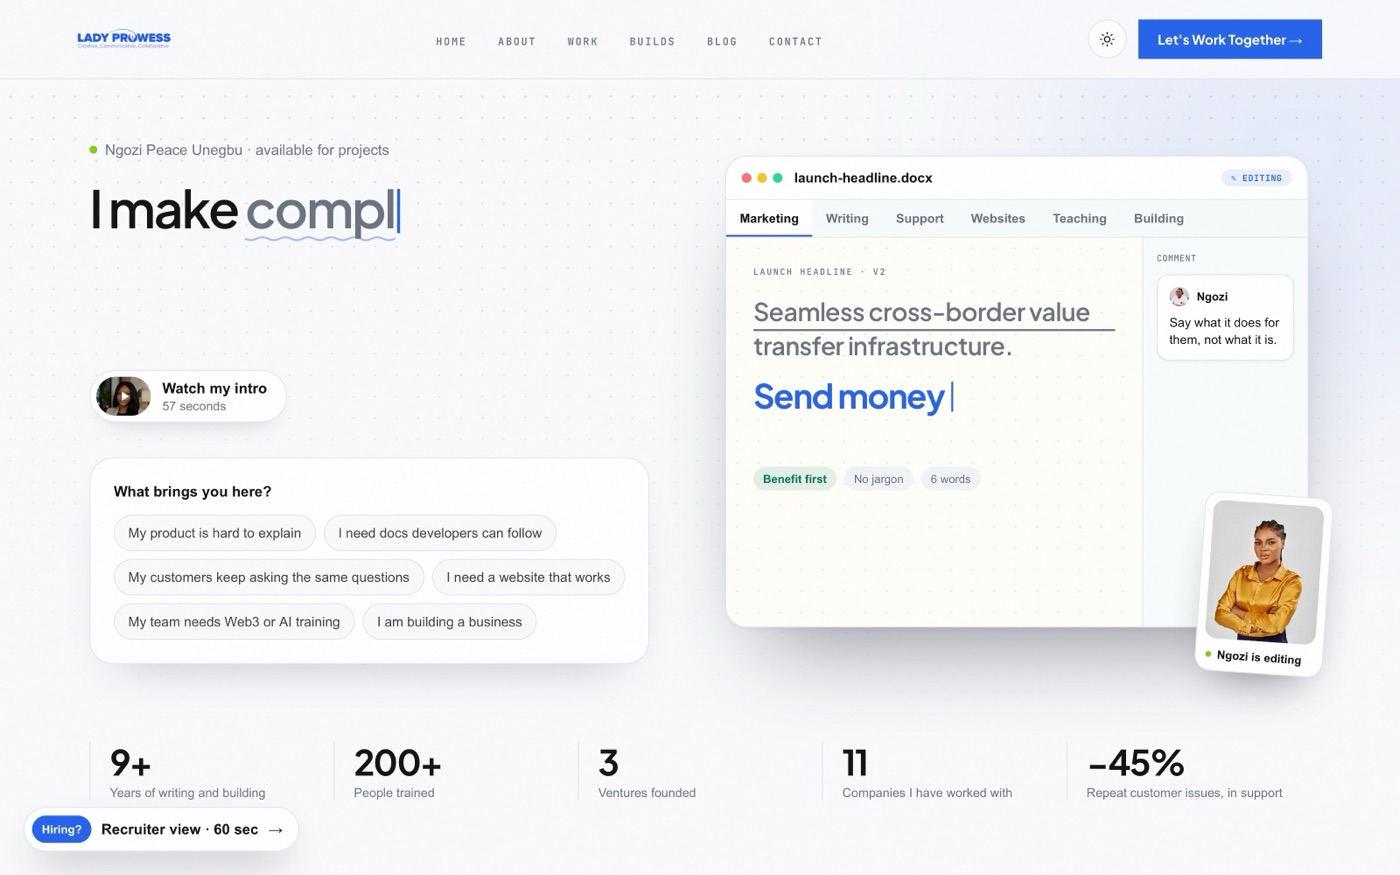
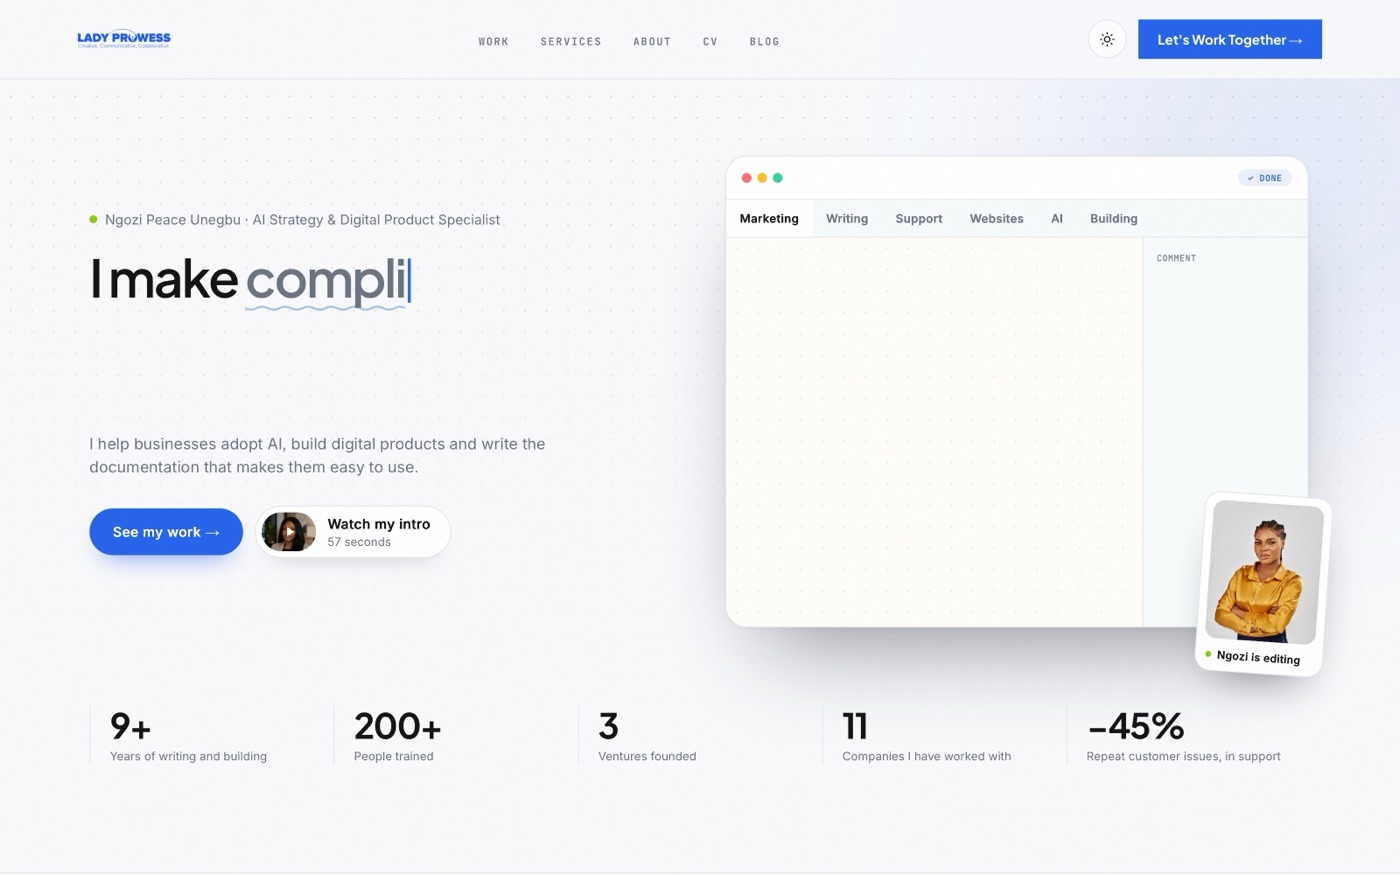
portfolio

diff --git a/components/work/WorkView.tsx b/components/work/WorkView.tsx
@@ -14,9 +14,9 @@ import { learning, websites, writing } from '@/lib/work-content'
 const wrap = 'mx-auto max-w-[1200px] px-5 md:px-8'
 const kivora = products.find(p => p.id === 'kivorapay')!
 // Chidexun is a client website, so it lives under Websites, not Products.
-const otherProducts = products.filter(p => p.id !== 'kivorapay' && p.id !== 'chidexun')
-// Prowess Digital Solutions is shown once, under Products.
-const sites = websites.filter(w => w.title !== 'Prowess Digital Solutions')
+const otherProducts = products.filter(p => !['kivorapay', 'chidexun', 'portfolio'].includes(p.id))
+// Prowess Digital Solutions and Dritchwear are shown once, under Products.
+const sites = websites.filter(w => w.title !== 'Prowess Digital Solutions' && w.title !== 'Dritchwear')
 
 const sections = [
   { id: 'products', label: 'Products' },
@@ -55,9 +55,9 @@ export default function WorkView() {
           <div className="relative min-h-[320px]"><KivoraMock /></div>
         </a>
       </Reveal>
-      <Grid>
-        {otherProducts.map(p => <Card key={p.id} href={p.href} image={p.image} title={p.name} tag={p.status} text={p.summary} />)}
-      </Grid>
+      <div className="mt-16 space-y-16 md:space-y-24">
+        {otherProducts.map((p, i) => <Reveal key={p.id}><Row flip={i % 2 === 1} href={p.href} image={p.image} title={p.name} tag={p.status} kind={p.kind} text={p.summary} /></Reveal>)}
+      </div>
     </Section>
 
     {/* ── Technical writing ────────────────────────────── */}
@@ -73,9 +73,14 @@ export default function WorkView() {
         </a>
       </Reveal>
       <p className="mt-12 font-head text-[11px] uppercase tracking-[.16em] text-muted">Published on</p>
-      <Grid cols4>
-        {writing.map(w => <Card key={w.title} href={w.href} image={w.image} title={w.title} text={w.description} small />)}
-      </Grid>
+      <ul className="mt-4 grid border-t border-ink-border sm:grid-cols-2">
+        {writing.map(w => <li key={w.title} className="border-b border-ink-border sm:odd:border-r sm:odd:pr-8 sm:even:pl-8">
+          <a href={w.href} target="_blank" rel="noopener noreferrer" className="group flex items-baseline justify-between gap-4 py-4">
+            <span><span className="font-display text-lg font-semibold tracking-[-.01em] group-hover:text-primary">{w.title}</span><span className="mt-0.5 block text-sm text-muted">{w.description}</span></span>
+            <span className="shrink-0 text-primary">↗</span>
+          </a>
+        </li>)}
+      </ul>
     </Section>
 
     {/* ── Websites ─────────────────────────────────────── */}
@@ -87,22 +92,25 @@ export default function WorkView() {
 
     {/* ── Teaching ─────────────────────────────────────── */}
     <Section id="teaching" label="Teaching" title="Courses and resources" tint>
-      <Grid>
-        {learning.map(l => <Card key={l.title} href={l.href} image={l.image} title={l.title} text={l.description} />)}
-      </Grid>
+      <ul className="border-t border-ink-border">
+        {learning.map(l => <li key={l.title} className="border-b border-ink-border">
+          <a href={l.href} target="_blank" rel="noopener noreferrer" className="group flex items-center gap-5 py-5">
+            <span className="relative hidden h-16 w-24 shrink-0 overflow-hidden rounded-xl bg-surface-2 sm:block"><Image src={l.image} alt="" fill sizes="96px" className="object-cover" /></span>
+            <span className="flex-1"><span className="font-display text-lg font-semibold tracking-[-.01em] group-hover:text-primary">{l.title}</span><span className="mt-0.5 block text-sm text-muted">{l.description}</span></span>
+            <span className="shrink-0 text-primary">↗</span>
+          </a>
+        </li>)}
+      </ul>
     </Section>
 
     {/* ── Python ───────────────────────────────────────── */}
-    <Section id="python" label="Python" title="Small tools that remove manual work">
-      <div className="grid gap-4 md:grid-cols-3">
-        {python.map(t => <div key={t.id} className="overflow-hidden rounded-3xl border border-ink-border bg-surface">
-          <p className="truncate bg-[#0B0F14] px-5 py-3.5 font-head text-[12.5px] text-[#E7EDF6]"><span className="text-[#28C840]">$</span> {t.cmd}</p>
-          <div className="p-5">
-            <h3 className="font-display text-lg font-semibold tracking-[-.01em]">{t.name}</h3>
-            <p className="mt-1.5 text-sm leading-6 text-muted">{t.summary}</p>
-          </div>
-        </div>)}
-      </div>
+    <Section id="python" label="Python" title="Tools that remove manual work">
+      <ul className="overflow-hidden rounded-3xl bg-[#0B0F14] text-[#E7EDF6]">
+        {python.map(t => <li key={t.id} className="grid gap-1 border-b border-white/10 px-6 py-5 last:border-0 md:grid-cols-[minmax(0,1fr)_minmax(0,1.3fr)] md:gap-8 md:px-8">
+          <p className="truncate font-head text-[13px]"><span className="text-[#28C840]">$</span> {t.cmd}</p>
+          <p className="text-sm leading-6 text-white/70"><span className="font-semibold text-white">{t.name}.</span> {t.summary}</p>
+        </li>)}
+      </ul>
       <p className="mt-8 max-w-2xl text-sm leading-6 text-muted">
         <span className="font-semibold text-parchment">How I build: </span>
         I direct AI coding agents (Claude Code) and write the rules they work by, then test every state before anything ships.
@@ -135,6 +143,23 @@ function Section({ id, label, title, tint = false, children }: { id: string; lab
       {children}
     </div>
   </section>
+}
+
+/** A product shown big: picture on one side, a few words on the other. */
+function Row({ flip, href, image, title, tag, kind, text }: { flip: boolean; href?: string; image?: string; title: string; tag?: string; kind: string; text: string }) {
+  const external = href?.startsWith('http')
+  return <a href={href} target={external ? '_blank' : undefined} rel={external ? 'noopener noreferrer' : undefined} className="group grid items-center gap-8 md:grid-cols-2 md:gap-14">
+    <div className={`relative aspect-[16/10] overflow-hidden rounded-[1.75rem] border border-ink-border bg-surface-2 shadow-[0_30px_70px_-40px_rgba(17,24,39,.4)] ${flip ? 'md:order-2' : ''}`}>
+      {image && <Image src={image} alt={`${title} screenshot`} fill sizes="(max-width: 768px) 100vw, 560px" className="object-cover object-top transition duration-700 group-hover:scale-[1.02]" />}
+    </div>
+    <div>
+      {tag && <span className={`text-xs font-semibold ${tag === 'Live' ? 'text-success' : 'text-muted'}`}>● {tag}</span>}
+      <h3 className="mt-2 font-display text-3xl font-semibold tracking-[-.03em]">{title}</h3>
+      <p className="mt-1 text-sm text-muted">{kind}</p>
+      <p className="mt-4 max-w-md text-[15px] leading-7 text-parchment/85">{text}</p>
+      <span className="mt-5 inline-block text-sm font-semibold text-primary">{external ? 'Visit ↗' : 'Open →'}</span>
+    </div>
+  </a>
 }
 
 function Grid({ cols4 = false, children }: { cols4?: boolean; children: ReactNode }) {

diff --git a/components/home/HomeHero.tsx b/components/home/HomeHero.tsx
@@ -31,7 +31,7 @@ export default function HomeHero({ intent, onIntent, onExplore, facet, onFacet, 
     {/* Three blocks. Desktop: intro and question on the left, editor on the right.
         Phones: intro, then the editor, then the question, so the first screen is not all text. */}
     {/* grid-cols-1 (minmax(0,1fr)) stops the swipeable answer row from widening the page on phones */}
-    <div className="relative mx-auto grid max-w-[1320px] grid-cols-1 items-start gap-9 px-5 md:px-8 lg:grid-cols-[1fr_1fr] lg:grid-rows-[auto_1fr] lg:gap-x-12 lg:gap-y-9">
+    <div className="relative mx-auto grid max-w-[1320px] grid-cols-1 items-start gap-9 px-5 md:px-8 lg:grid-cols-[1fr_1fr] lg:items-center lg:gap-x-12">
 
       <div className="lg:col-start-1 lg:row-start-1">
         {/* Kept short on purpose: the editor beside it shows the crafts, so the words only need to name her and caption it. */}
@@ -42,42 +42,24 @@ export default function HomeHero({ intent, onIntent, onExplore, facet, onFacet, 
         <TypedHeadline className="mt-4 font-display text-[clamp(2.1rem,3.7vw,3.35rem)] font-semibold leading-[1.08] tracking-[-0.04em] md:mt-5" />
         {/* What she does, in one line, so the first screen answers it. */}
         <p className="mt-4 max-w-[34rem] text-[15px] leading-7 text-muted md:text-base">I help businesses adopt AI, build digital products and write the documentation that makes them easy to use.</p>
+        {/* Two next steps only: meet her, or see the work. */}
+        <div className="mt-7 flex flex-wrap items-center gap-3">
+        <a href="/work" className="rounded-full bg-primary px-6 py-3.5 text-sm font-semibold text-on-primary shadow-[0_12px_30px_-12px_rgb(var(--primary)/.7)] transition hover:bg-primary-dim">See my work →</a>
         {/* Reopens the video introduction (components/home/IntroVideo.tsx) */}
         <button type="button" onClick={openIntro}
-          className="group mt-6 flex items-center gap-3 rounded-full border border-ink-border bg-surface py-1.5 pl-1.5 pr-5 text-left shadow-[0_12px_30px_-18px_rgba(17,24,39,.35)] transition hover:border-primary/50">
+          className="group flex items-center gap-3 rounded-full border border-ink-border bg-surface py-1.5 pl-1.5 pr-5 text-left shadow-[0_12px_30px_-18px_rgba(17,24,39,.35)] transition hover:border-primary/50">
           <span className="relative h-10 w-14 shrink-0 overflow-hidden rounded-full">
             <Image src="/personal photo/headshot3.png" alt="" fill sizes="56px" className="object-cover object-[50%_22%]" />
             <span className="absolute inset-0 flex items-center justify-center bg-black/25"><svg viewBox="0 0 24 24" className="ml-0.5 h-4 w-4 text-white" fill="currentColor" aria-hidden="true"><path d="M8 5v14l11-7z" /></svg></span>
           </span>
           <span className="text-sm"><span className="block font-semibold">Watch my intro</span><span className="block text-xs text-muted">57 seconds</span></span>
         </button>
-      </div>
-
-        {/* What brings you here? Ngozi answers, and the page follows. */}
-        <div className="max-w-xl rounded-3xl border border-ink-border bg-surface/80 p-5 shadow-[0_24px_60px_-30px_rgba(17,24,39,.3)] backdrop-blur md:p-6 lg:col-start-1 lg:row-start-2">
-          <p className="text-sm font-semibold">What brings you here?</p>
-          {/* Phones: one swipeable row of answers instead of a tall stack */}
-          <div className="-mx-5 mt-3.5 flex gap-2 overflow-x-auto px-5 pb-1 [scrollbar-width:none] md:mx-0 md:flex-wrap md:overflow-visible md:px-0 md:pb-0">
-            {intents.map(i => <button key={i.key} type="button" onClick={() => { onIntent(i.key); posthog.capture('home_intent_chosen', { intent: i.key }) }} aria-pressed={intent === i.key}
-              className={`shrink-0 whitespace-nowrap rounded-full border px-3.5 py-2 text-left text-[13px] transition md:shrink md:whitespace-normal ${intent === i.key ? 'border-primary bg-primary text-on-primary' : 'border-ink-border bg-bg text-parchment/80 hover:border-primary/50 hover:text-parchment'}`}>{i.label}</button>)}
-          </div>
-          <AnimatePresence mode="wait">
-            {chosen && <motion.div key={chosen.key} initial={{ opacity: 0, y: 8 }} animate={{ opacity: 1, y: 0 }} exit={{ opacity: 0, y: -4 }} transition={{ duration: 0.3 }} className="mt-5 border-t border-ink-border pt-5" aria-live="polite">
-              <div className="flex gap-3">
-                <span className="relative mt-0.5 h-8 w-8 shrink-0 overflow-hidden rounded-full"><Image src="/hero/mine.jpeg" alt="" fill sizes="32px" className="object-cover object-top" /></span>
-                <p className="rounded-2xl rounded-tl-sm bg-primary/[0.08] px-4 py-3 text-[15px] leading-6">{chosen.reply}</p>
-              </div>
-              <div className="mt-4 flex flex-wrap gap-2 pl-11">
-                <button type="button" onClick={() => onExplore(chosen.facet)} className="rounded-full bg-parchment px-4 py-2 text-xs font-semibold text-bg hover:opacity-90">See my {facetLabel} work ↓</button>
-                <a href="#contact" className="rounded-full border border-ink-border px-4 py-2 text-xs font-semibold hover:border-muted">Tell me about it →</a>
-              </div>
-            </motion.div>}
-          </AnimatePresence>
         </div>
+      </div>
 
       {/* The live editor: every craft, being done in real time */}
       {/* min-w-0 lets the column shrink on phones so the tab row scrolls instead of widening the page */}
-      <div className="relative mx-auto w-full min-w-0 max-w-[600px] lg:col-start-2 lg:row-span-2 lg:row-start-1 lg:mt-4">
+      <div className="relative mx-auto w-full min-w-0 max-w-[600px] lg:col-start-2 lg:row-start-1 lg:mt-4">
         {/* The logo's arc, sweeping over the editor and ending in the pen nib */}
         <svg aria-hidden="true" viewBox="0 0 600 120" className="absolute -top-16 left-0 hidden w-full overflow-visible md:block">
           <motion.path d="M30 118 C 120 -20, 470 -30, 560 70" fill="none" stroke="rgb(var(--primary))" strokeWidth="1.5" strokeLinecap="round" strokeOpacity=".7"

diff --git a/components/docs/DocsView.tsx b/components/docs/DocsView.tsx
@@ -3,8 +3,7 @@
 import Link from 'next/link'
 import { AnimatePresence, motion } from 'framer-motion'
 import { useCallback, useEffect, useMemo, useRef, useState } from 'react'
-import Nav from '@/components/Nav'
-import Footer from '@/components/Footer'
+import Image from 'next/image'
 import { pages, type DocPage } from './content'
 import { ShellProvider } from './Shell'
 
@@ -62,22 +61,25 @@ export default function DocsView() {
 
   return (
     <ShellProvider go={go} pages={pages}><main className="min-h-screen bg-bg pb-20 text-parchment">
-      <Nav />
-      <div className="border-b border-ink-border bg-surface pt-[var(--nav-h)]">
-        <div className="mx-auto flex max-w-[1440px] items-center gap-3 px-4 py-3 sm:px-6 lg:px-8">
+      {/* One header for the docs: like a real documentation site, it replaces the portfolio menu. */}
+      <header className="sticky top-0 z-50 border-b border-ink-border bg-surface/95 backdrop-blur">
+        <div className="mx-auto flex h-16 max-w-[1440px] items-center gap-3 px-4 sm:px-6 lg:px-8">
+          <a href="/" aria-label="Lady Prowess home" className="hidden shrink-0 sm:block"><Image src="/Logo-blue.png" alt="Lady Prowess" width={130} height={34} className="site-logo h-7 w-auto" /></a>
+          <span aria-hidden="true" className="hidden h-6 w-px bg-ink-border sm:block" />
           <button type="button" onClick={() => setMenu(true)} className="flex h-10 items-center gap-2 rounded-lg border border-ink-border px-3 text-sm font-semibold lg:hidden" aria-label="Open documentation menu">☰ <span className="max-w-[40vw] truncate">{page.title}</span></button>
-          <p className="hidden items-center gap-2 text-sm font-bold lg:flex"><span className="flex h-7 w-7 items-center justify-center rounded-lg bg-primary font-head text-xs text-on-primary">NP</span>Ngozi Peace Unegbu <span className="font-normal text-muted">/ Documentation</span></p>
+          <p className="hidden text-sm font-semibold lg:block">Documentation</p>
           <span className="hidden items-center gap-1.5 rounded-full bg-success/10 px-2.5 py-1 text-[0.7rem] font-bold text-success sm:flex"><span className="relative flex h-1.5 w-1.5"><span className="absolute inset-0 animate-ping rounded-full bg-success" /><span className="h-1.5 w-1.5 rounded-full bg-success" /></span>Live</span>
           <button type="button" onClick={() => setSearch(true)} className="ml-auto flex h-10 w-full max-w-[280px] items-center gap-2 rounded-lg border border-ink-border bg-bg px-3 text-sm text-muted transition hover:border-primary/40">
             <svg width="15" height="15" viewBox="0 0 24 24" fill="none" stroke="currentColor" strokeWidth="2.2"><circle cx="11" cy="11" r="7" /><path d="M21 21l-4.3-4.3" /></svg>
             Search docs<kbd className="ml-auto hidden rounded border border-ink-border px-1.5 font-head text-[0.65rem] sm:inline">⌘K</kbd>
           </button>
+          <a href="/work" className="hidden shrink-0 text-sm font-semibold text-muted transition hover:text-parchment md:block">← Back to portfolio</a>
         </div>
-      </div>
+      </header>
 
       <div className="mx-auto grid max-w-[1440px] gap-10 px-4 sm:px-6 lg:grid-cols-[250px_minmax(0,1fr)] lg:px-8 xl:grid-cols-[250px_minmax(0,1fr)_210px]">
         <aside className="hidden lg:block">
-          <div className="sticky top-[calc(var(--nav-h)+1.5rem)] max-h-[calc(100vh-var(--nav-h)-3rem)] overflow-y-auto py-8 pr-2">
+          <div className="sticky top-[5.5rem] max-h-[calc(100vh-7rem)] overflow-y-auto py-8 pr-2">
             <Sidebar active={page.id} go={go} />
           </div>
         </aside>
@@ -99,7 +101,7 @@ export default function DocsView() {
         </article>
 
         <aside className="hidden xl:block">
-          <div className="sticky top-[calc(var(--nav-h)+1.5rem)] py-8"><Toc key={page.id} page={page} /></div>
+          <div className="sticky top-[5.5rem] py-8"><Toc key={page.id} page={page} /></div>
         </aside>
       </div>
 
@@ -114,7 +116,6 @@ export default function DocsView() {
         )}
       </AnimatePresence>
       <AnimatePresence>{search && <Search onClose={() => setSearch(false)} go={go} />}</AnimatePresence>
-      <Footer />
     </main></ShellProvider>
   )
 }

diff --git a/components/home/HomePage.tsx b/components/home/HomePage.tsx
@@ -7,15 +7,14 @@ import { intents, type EditorKey } from '@/lib/home-content'
 import Welcome from './Welcome'
 import HomeHero from './HomeHero'
 import Doors from './Doors'
-import Proof from './Proof'
+import LogoStrip from './LogoStrip'
+import Testimonials from './Testimonials'
 import { type LatestPost } from './LatestWriting'
-import YourTurn from './YourTurn'
-import RecruiterPill from './RecruiterPill'
 import IntroVideo from './IntroVideo'
 
 // The homepage has one job: say who Ngozi is and send each visitor to the
-// right page. Hero, three doors (CV, Work, Services), who she has worked
-// with, and contact. The detail lives on those pages, shown once:
+// right page. Hero, who she has worked with, three doors (CV, Work,
+// Services) and what clients say. Contact lives on /services. The detail lives on those pages, shown once:
 // skills and live demos on /services, projects on /work, her story on /about.
 // (Crafts, Journey, Ventures and LatestWriting are kept in this folder but not
 // shown here, so nothing repeats.)
@@ -47,12 +46,11 @@ export default function HomePage(_props: { posts: LatestPost[] }) {
     <main className="min-h-screen bg-bg text-parchment">
       <Nav />
       <HomeHero intent={intent} onIntent={chooseIntent} onExplore={explore} facet={facet} onFacet={pickFacet} locked={locked} />
-      <Doors />
-      <Proof />
-      <YourTurn intent={intent} />
+      <LogoStrip />
+      <div className="pt-16 md:pt-24"><Doors /></div>
+      <section className="mx-auto max-w-[1320px] px-5 pb-20 md:px-8 md:pb-28"><Testimonials /></section>
       <Footer />
     </main>
-    <RecruiterPill />
     <IntroVideo />
   </>
 }

diff --git a/components/home/LogoStrip.tsx b/components/home/LogoStrip.tsx
@@ -1,0 +1,20 @@
+import Image from 'next/image'
+import { clients } from '@/lib/home-content'
+
+// Who she has worked with, as one quiet row of logos under the hero, instead
+// of a full wall of tiles. Hovering a logo shows what she did for them.
+export default function LogoStrip() {
+  return <section aria-label="Teams I have worked with" className="border-y border-ink-border bg-surface">
+    <div className="mx-auto flex max-w-[1320px] flex-col gap-5 px-5 py-8 md:flex-row md:items-center md:gap-10 md:px-8">
+      <p className="shrink-0 font-head text-[11px] uppercase tracking-[.16em] text-muted">Trusted by teams at</p>
+      <ul className="flex flex-wrap items-center gap-x-8 gap-y-5">
+        {clients.slice(0, 8).map(c => <li key={c.name}>
+          <a href={c.href} target="_blank" rel="noopener noreferrer" title={`${c.name}: ${c.did}`}
+            className="brand-plate flex items-center rounded-md px-1.5 py-1 opacity-70 grayscale transition hover:opacity-100 hover:grayscale-0">
+            <Image src={c.image} alt={c.name} width={110} height={32} className="max-h-7 w-auto max-w-[96px] object-contain" />
+          </a>
+        </li>)}
+      </ul>
+    </div>
+  </section>
+}

diff --git a/components/home/IntroVideo.tsx b/components/home/IntroVideo.tsx
@@ -143,7 +143,7 @@ export default function IntroVideo() {
               className="absolute inset-0 flex flex-col items-center justify-center gap-5 bg-[#0A0C0D]/85 px-6 text-center text-white">
               <p className="font-display text-2xl font-semibold tracking-[-.02em] md:text-3xl">Have a problem worth solving?</p>
               <div className="flex flex-wrap justify-center gap-3">
-                <button type="button" onClick={() => goTo('#contact')} className="rounded-full bg-[#2563EB] px-6 py-3 text-sm font-semibold text-white hover:bg-[#1D4ED8]">Let’s talk</button>
+                <button type="button" onClick={() => { close(); window.location.href = '/services#contact' }} className="rounded-full bg-[#2563EB] px-6 py-3 text-sm font-semibold text-white hover:bg-[#1D4ED8]">Let’s talk</button>
                 <a href="/work" className="rounded-full border border-white/25 px-6 py-3 text-sm font-semibold hover:border-white/60">See what I’ve built</a>
                 <button type="button" onClick={play} className="rounded-full px-5 py-3 text-sm font-semibold text-white/70 hover:text-white">↻ Replay</button>
               </div>

diff --git a/lib/builds-content.ts b/lib/builds-content.ts
@@ -97,6 +97,15 @@ export const products: Build[] = [
     href: '/',
     linkLabel: 'Home',
   },
+  {
+    id: 'dritchwear', status: 'Live', image: '/service-proof/dritchwear.png', name: 'Dritchwear',
+    kind: 'Streetwear & merchandise · Founder',
+    summary: 'My streetwear and branded merchandise label: custom apparel, corporate gifts and event kits, with an online store to order them.',
+    did: [],
+    stack: 'Next.js, e-commerce',
+    href: 'https://dritchwear.com/shop',
+    linkLabel: 'Visit Dritchwear',
+  },
 ]
 
 export const python: Build[] = [

diff --git a/components/home/Doors.tsx b/components/home/Doors.tsx
@@ -13,6 +13,7 @@ const doors = [
 
 export default function Doors() {
   return <section aria-label="Where to go next" className="mx-auto max-w-[1320px] px-5 pb-16 md:px-8 md:pb-24">
+    <h2 className="mb-6 font-display text-2xl font-semibold tracking-[-.03em] md:mb-8 md:text-3xl">Where would you like to start?</h2>
     <div className="grid gap-4 md:grid-cols-3">
       {doors.map((d, i) => <Reveal key={d.href} delay={i * 0.08} className="h-full">
         <a href={d.href} onClick={() => posthog.capture('home_door_clicked', { door: d.href })}

diff --git a/components/Footer.tsx b/components/Footer.tsx
@@ -7,10 +7,11 @@ const columns = [
     links: [
       { label: 'Home', href: '/' },
       { label: 'Work', href: '/work' },
+      { label: 'Docs', href: '/docs' },
       { label: 'Services', href: '/services' },
       { label: 'About', href: '/about' },
       { label: 'CV', href: '/recruiter' },
-      { label: 'Contact', href: '/#contact' },
+      { label: 'Contact', href: '/services#contact' },
     ],
   },
   {

diff --git a/components/Nav.tsx b/components/Nav.tsx
@@ -7,6 +7,7 @@ import ThemeToggle from '@/components/ThemeToggle'
 
 const links = [
   { href: '/work',         label: 'Work' },
+  { href: '/docs',         label: 'Docs' },
   { href: '/services',     label: 'Services' },
   { href: '/about',        label: 'About' },
   { href: '/recruiter',    label: 'CV' },
